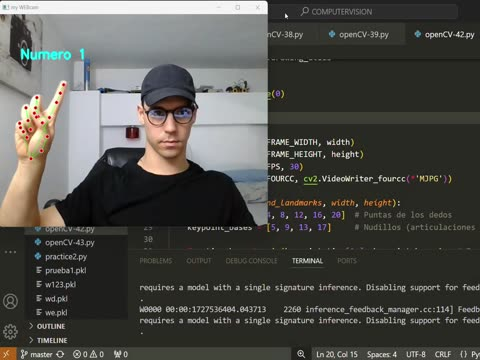
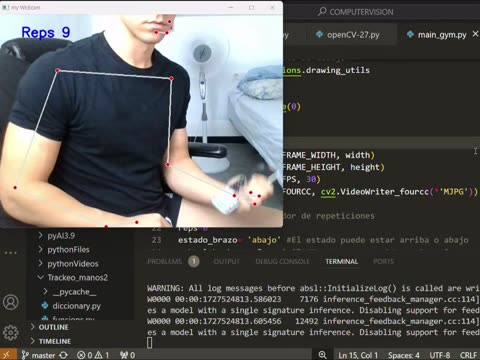
El proyecto de visión pasa a llamarse por lo que es, y su portada al 0:09
Portada nueva: el contador de repeticiones con los landmarks encima del brazo,
recortado 4:3 desde el fotograma del segundo 9. Antes era el conteo de dedos
del 38.

(El cat feeder ya se borró en 7e7204b; el HTML de producción no lo menciona.)

diff --git a/src/content/projects/computer-vision.md b/src/content/projects/computer-vision.md
@@ -1,5 +1,5 @@
 ---
-title: "Forty-three scripts learning to see"
+title: "Forty-three Python OpenCV scripts"
 summary: "Two months of 2023 spent teaching myself computer vision the slow way: one numbered Python script per idea, from a face in a box to gestures that switch on real LEDs."
 year: 2023
 stack: ["Python", "OpenCV", "MediaPipe", "YOLOv5", "face_recognition", "Arduino"]
